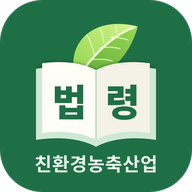
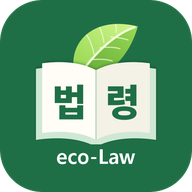
아이콘 글자를 eco-Law로 교체

Changed region(s): [[0.1875, 0.75, 0.8125, 0.9062]]

diff --git a/sw.js b/sw.js
@@ -1,7 +1,7 @@
 /* 친환경농업 법령 검색 — 서비스 워커
    앱 껍데기와 조문 자료(laws.json)는 설치할 때 저장하고,
    별표·서식 이미지는 한 번 본 것과 설정에서 내려받은 것을 저장한다. */
-const SHELL = 'eco-law-shell-055c7c8abc'; /*BUILD*/
+const SHELL = 'eco-law-shell-4babc0d787'; /*BUILD*/
 const IMAGES = 'eco-law-images';
 const SHELL_FILES = ['./', 'index.html', 'style.css', 'app.js', 'manifest.webmanifest',
   'icons/icon-192.png', 'icons/icon-512.png', 'data/laws.json'];
